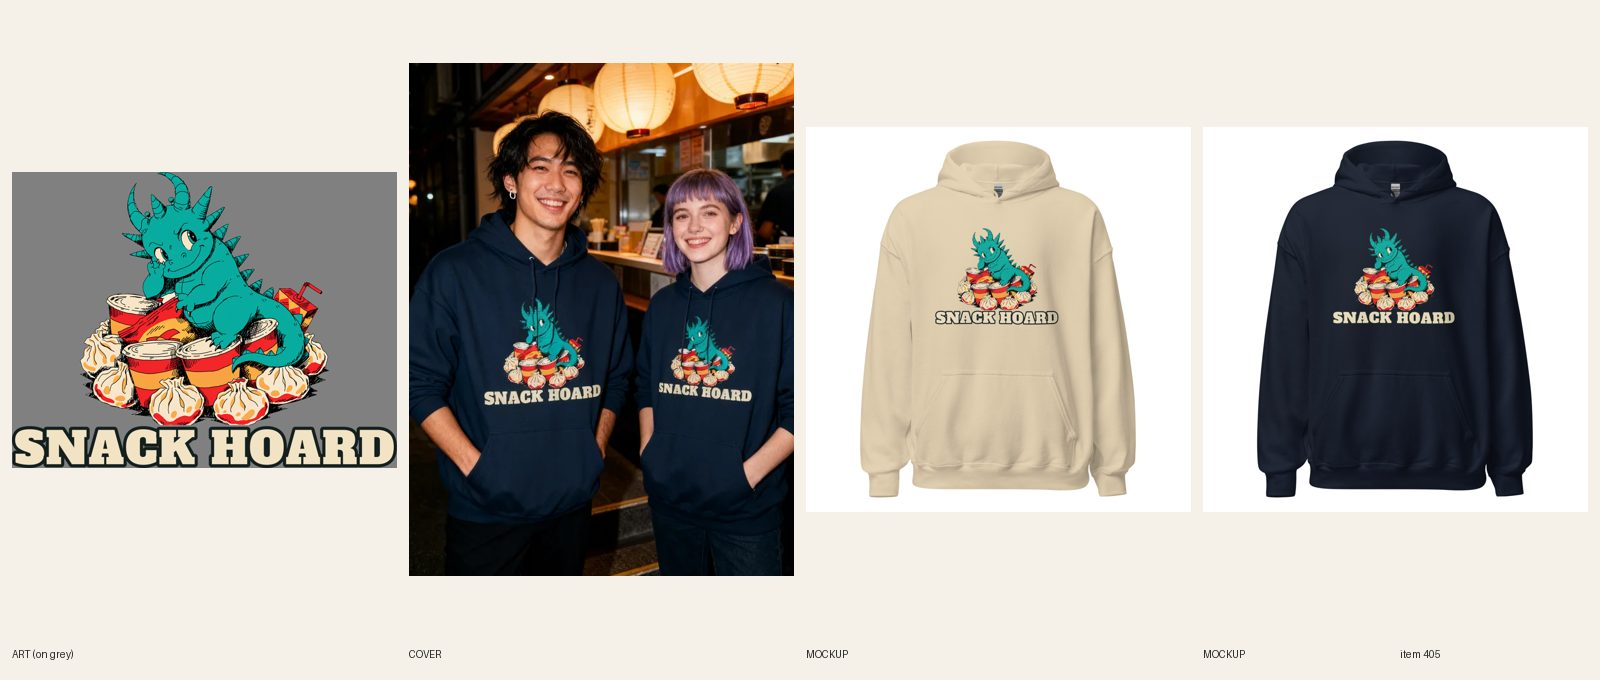
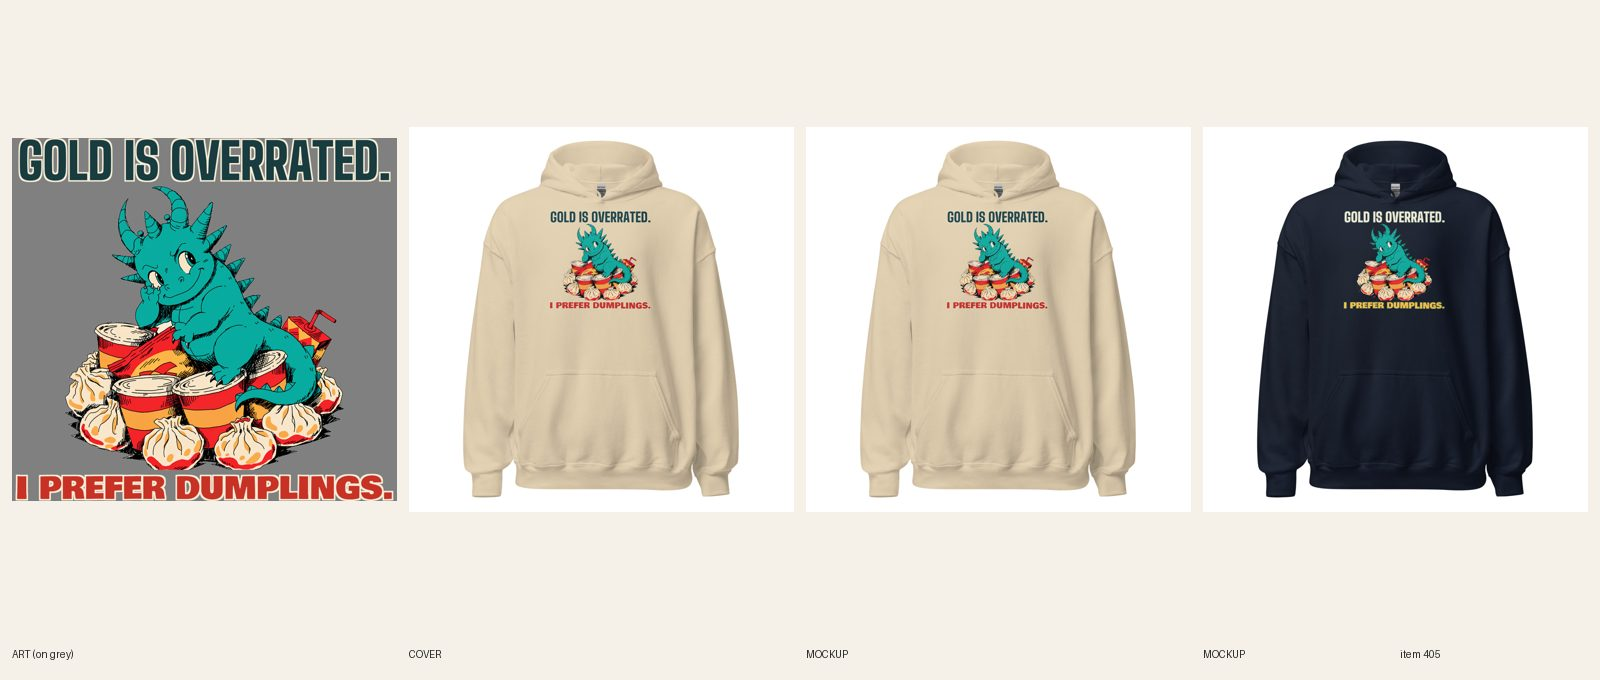
[C] review 405 (redo)
Claude-Session: https://claude.ai/code/session_01CCHcDj8LcJJ8qUPtKE3cvn

Changed region(s): [[0.0, 0.0926, 0.5, 0.8647], [0.5625, 0.3088, 0.6562, 0.4941], [0.8125, 0.3088, 0.9062, 0.4941]]

diff --git a/designs/c405/make.py b/designs/c405/make.py
@@ -1,0 +1,9 @@
+import sys; sys.path.insert(0,'.')
+from designs.lib import *
+im=Image.open('docs/print-files/405-snack-hoard.png').convert('RGBA'); W=im.width
+art=im.crop((0,0,W,2268)); art=art.crop(art.getbbox()); art=art.resize((int(art.width*1.12),int(art.height*1.12)),Image.LANCZOS)
+DK=(24,60,64,255); RED=(200,50,38,255); TEAL=(0,150,140,255)
+for tag,c1,k1,c2,k2,bg in (('sand',DK,CREAM,RED,CREAM,(214,196,160,255)),('navy',CREAM,DK,(250,196,70,255),DK,(38,50,88,255))):
+    h1=line("GOLD IS OVERRATED.",'big',0.97,W,c1,k1,kw=27); h2=line("I PREFER DUMPLINGS.",'bowlby',0.985,W,c2,k2,kw=29)
+    print(tag,'headline px',h1.width,'punch px',h2.width,'heights',h1.height,h2.height,'art',art.size)
+    out=lockup(art,W,[h1],[h2],f'405-v2-gold-{tag}',{tag:bg}); print(out.size,out.height/out.width)

diff --git a/docs/pipeline/405-anime-hoodie-snack-hoard.md b/docs/pipeline/405-anime-hoodie-snack-hoard.md
@@ -1,4 +1,4 @@
-status: BUILDING [C] 2026-10-20 08:46
+status: REVIEW
 lane: C
 type: new
 id: 405
@@ -30,3 +30,4 @@ kd: 34
 - 2026-10-17 21:11 UTC builder [C]: REVIEW. Sync 12/12. Sheet docs/review/405.jpg. design-crops and variant-photo audit cover published products only: rerun when ACTIVE. Local cohesion audit not run (no spec file); copy checked by hand against the art. Cover: drawstrings just touch the top of the dragon.
 - 2026-10-17 21:19 UTC director: LIVE. sheet seen: chubby dragon on ramen and dumplings, SNACK HOARD reads on both; unisex couple at a ramen stall. ACTIVE + Online Store, Headless, Google & YouTube; audit --handle PASS.
 - 2026-10-18 17:22 UTC director: QUALITY RESET grade C (new line + type), REDO. The product stays ACTIVE (same handle, URL, title keyword). 1. Line (R3.12, quality-reset 'Lines'): "SNACK HOARD": Two-word label describing the picture. Write 5 candidates, keep the one a stranger laughs at in 3 seconds without backstory; kill lines that only describe the picture; if none of the 5 is funny, PARK it. 2. Quality reset type bar (docs/backlog/quality-reset.md, 'The new bar'): headline at least 90% of the art width, heavy, colors pulled from the art; second line at least 45% of the headline's height, never a thin script on a dark or mid garment; use the lettering as a shape (arch, stacked lockup, words breaking into the art), not a plain bar above and a script line below; no font used on more than 1 in 6 of the last 30 designs. 3. Keep the art if it carries the new line, else one new illustration (R4/R5). New print means a new cover per R6.10, copy line one rewritten for the new joke (R8.3), and a fresh review sheet (R7.7). While quality-reset.md says PAUSED, only lane A builds, and only the samples step 2 names.
+- 2026-10-20 08:51 UTC builder [C]: REDO new line + type (grade C; title card 7i done). 5 candidates, compared with Plot Twist: I Stayed In, Oops. Anyway. and Wildly Low Maintenance: "GOLD IS OVERRATED. / I PREFER DUMPLINGS." (kept: dragons hoard gold, this one has better taste; a stranger gets it from the pile), "SNACK HOARD" (old label), "I'M NOT GREEDY. I'M A DRAGON.", "TOUCH MY SNACKS. FIND OUT.", "THE TREASURE IS THE LEFTOVERS". Same dragon-and-dumplings art at 112%. Measured ink widths (card 7h): headline GOLD IS OVERRATED. 3330 px / punch I PREFER DUMPLINGS. 3380 px (101%). Big Shoulders Display Black headline, Bowlby One punch. Light-file (R5.3.8): Sand file 1090264689 (headline dark teal with a cream keyline, punch red), Navy file 1090264716 (headline cream with a dark keyline, punch yellow); docs/print-files/405-v2-gold-sand.png / -navy.png; print 3445 x 3246, FW 1500 TOP 0 (about 1,410 px), 12/12 relinked (verified on the API). 2 fronts replaced in place, read at phone size. Title set to "Unisex Anime – Gold Is Overrated, I Prefer Dumplings Hoodie" (handle unchanged); copy, FAQ and SEO rewritten; handle in retired-covers.json. Plain product shot. fal $0.

diff --git a/docs/intake-log.md b/docs/intake-log.md
@@ -17,6 +17,7 @@ RUNNING director since 2026-10-20 07:17 UTC
 RUNNING lane B since 2026-10-20 07:29 UTC
 2026-10-20 08:00 UTC — [E] Builder run: redid #608 Women's Pickleball tee (line + type: POLITE SMILE. / PERSONAL VENDETTA., same serene-lady art, Bevan, dark-ink file on 5 light colors, 30/30 synced). REVIEW. fal $0.
 RUNNING lane C since 2026-10-20 07:00 UTC
+2026-10-20 08:51 UTC — [C] Builder run: redid #405 Unisex Anime dragon hoodie (new line + type: GOLD IS OVERRATED. / I PREFER DUMPLINGS., headline 3330 px / punch 3380 px, Big Shoulders + Bowlby, same dragon art, Sand file 1090264689 + Navy file 1090264716, FW 1500 TOP 0, 12/12 relinked, 2 fronts replaced in place, title + copy + SEO updated). REVIEW. fal $0.
 2026-10-20 08:46 UTC — [C] Builder run: redid #507 Women's National Park oversized hoodie round 3 (director note: scene cut to plume, steam, trees and pool with worn edges, no panel; Dust file 1090262138 + Navy file 1090262227, FW 1500 TOP 0, 12/12 relinked, 2 fronts replaced, copy updated). REVIEW. fal $0.
 2026-10-20 08:37 UTC — [C] Builder run: redid #509 Women's National Park zip hoodie round 2 (director note: shield silhouette broken, bottom point cut at the river line, ragged worn edges all round, chest copy rebuilt, Ash file 1090258924 + Navy file 1090258961, chest 1090258837, 12/12 relinked, back mockups replaced). REVIEW. fal $0.
 2026-10-20 08:30 UTC — [C] Builder run: redid #397 Unisex Otter hoodie round 2 (director note: new line TODAY'S PLAN: / HORIZONTAL., headline 3318 px / punch 3349 px, Sand file 1090256464 + Navy file 1090256642, FW 1500 TOP 0, 12/12 relinked, 2 fronts replaced in place, retitled + copy + SEO updated). REVIEW. fal $0.
